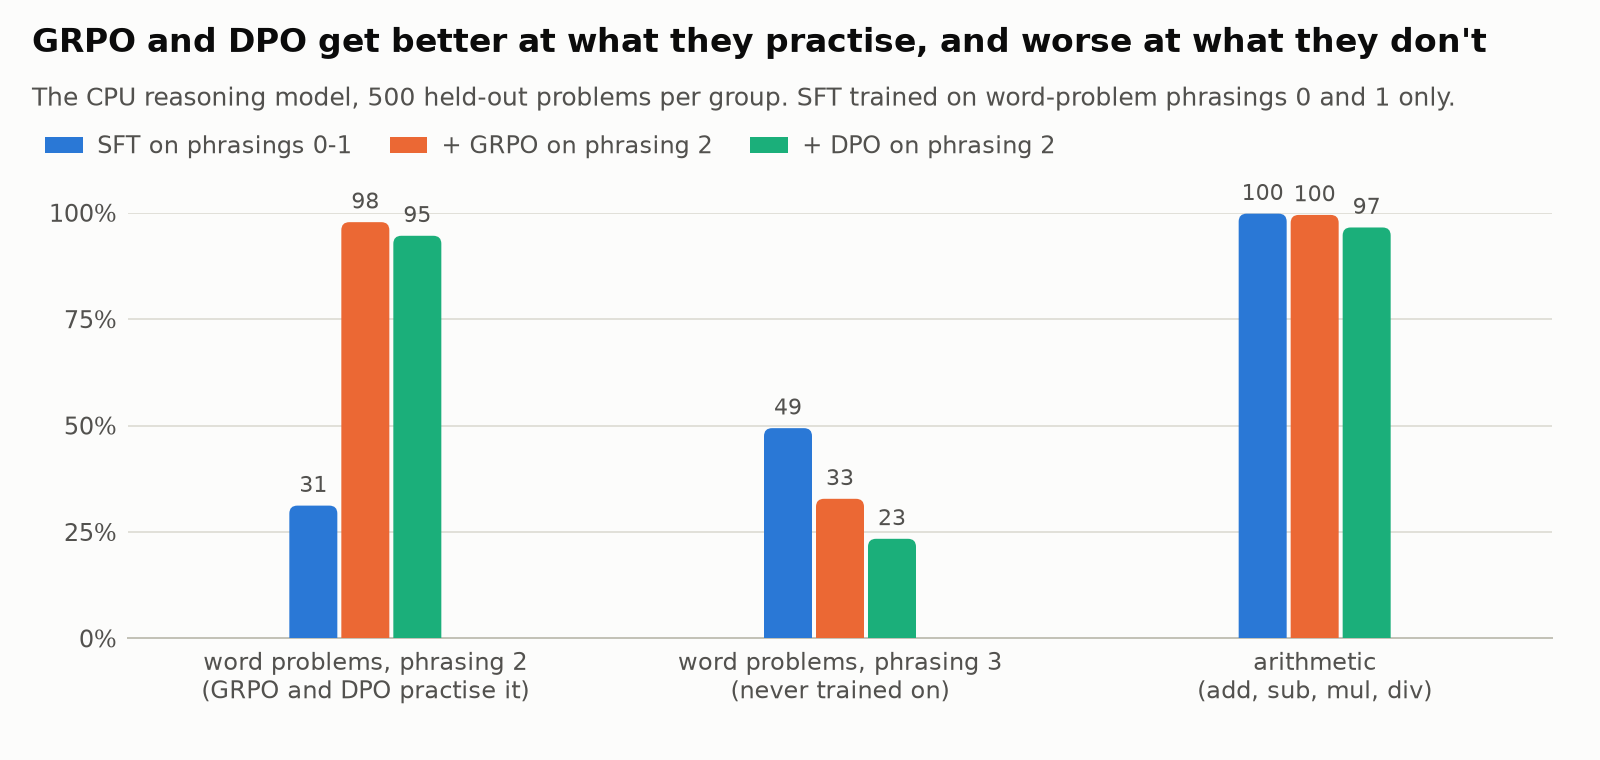
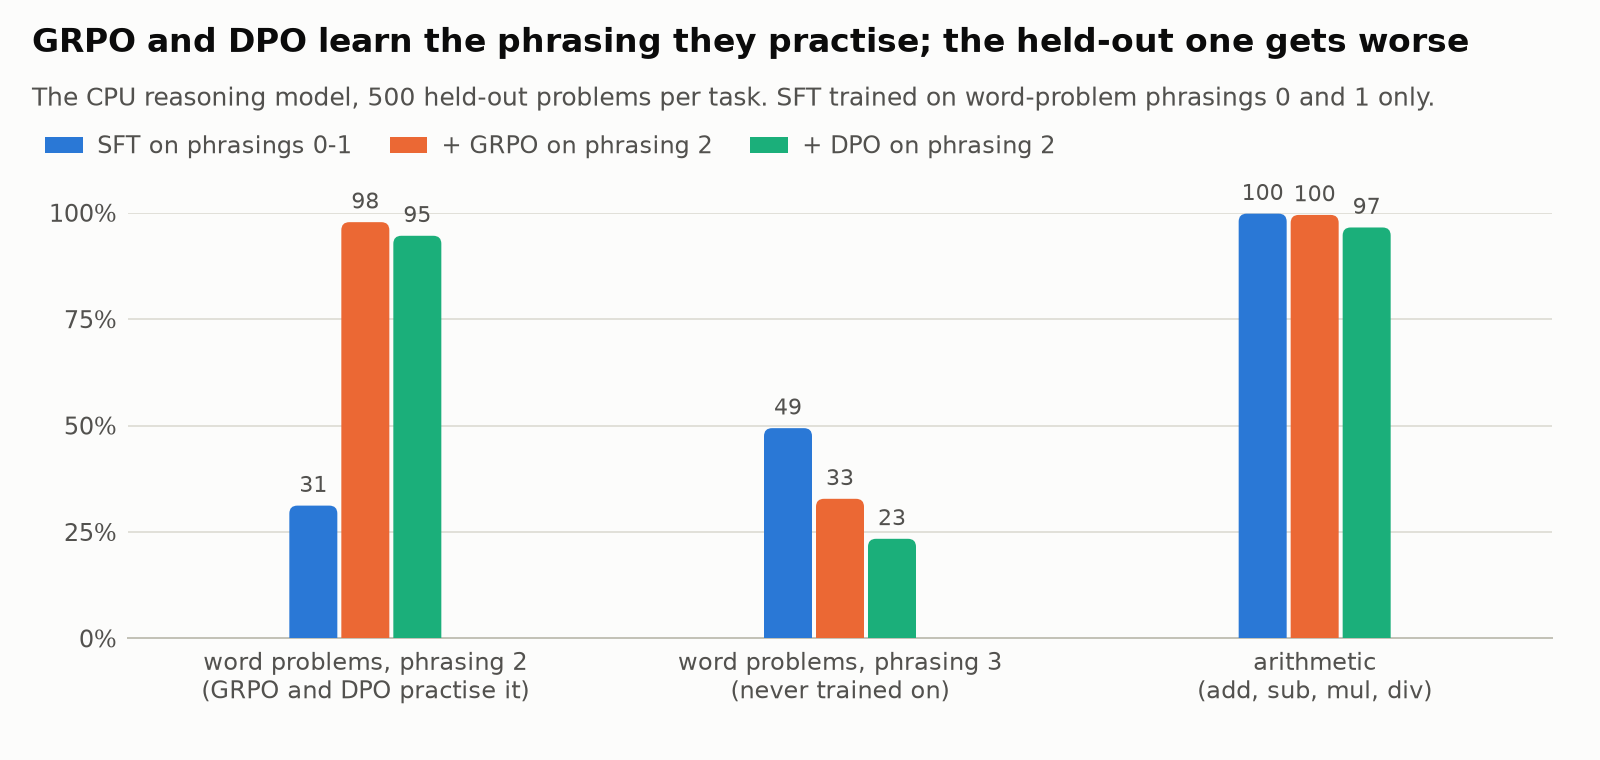
Fix review findings in the Colab results and phrasing-split sections
- GRPO's word-problem drop on Colab starts from 50% at step 100, not 51%
- the 4-digit claim names what was tested (4-digit sub/mul operands,
  4-digit quotients); "both GRPO runs" now means the reasoning model's runs
- the earlier 22% -> 34% run differs in setup, not just by chance
- the eval --phrasing example includes --model
- split figure: title matches the data (arithmetic is unchanged by GRPO),
  500 problems per task; friendly error when the split models are missing
- pretraining figure: no hidden training-loss end dot
- notebook: the CPU GRPO numbers separate reward from held-out accuracy

Claude-Session: https://claude.ai/code/session_01HpWxV4LpC7yRxGMyZBnKHA

Changed region(s): [[0.1875, 0.0303, 0.9375, 0.1513]]

diff --git a/docs/make_reasoning_figures.py b/docs/make_reasoning_figures.py
@@ -9,6 +9,12 @@ their metrics (checkpoints/example/experiments/); train them first to rerun the 
     python -m charlm sft  --config configs/reasoning/sft_plain.json
     python -m charlm grpo --config configs/reasoning/grpo_plain.json
 
+Neither are the models of the phrasing-split experiment (configs/reasoning/phrasing_split/):
+
+    python -m charlm sft  --config configs/reasoning/phrasing_split/sft.json
+    python -m charlm grpo --config configs/reasoning/phrasing_split/grpo.json
+    python -m charlm dpo  --config configs/reasoning/phrasing_split/dpo.json
+
 The evaluation (500 held-out prompts per task, a few minutes per model on a CPU) is saved to
 checkpoints/example/experiments/reasoning_eval.json and reused on later runs; delete it to evaluate again.
 """
@@ -278,7 +284,10 @@ def phrasing_split(label):
         import random
         from charlm import evaluate_tasks, load_checkpoint
         from charlm.tasks import ITEMS, NAMES, WORD_TEMPLATES, Example
-        model, tokenizer, _ = load_checkpoint(os.path.join(EXAMPLE, f'{dict(SPLIT)[label]}.pt'))
+        path = os.path.join(EXAMPLE, f'{dict(SPLIT)[label]}.pt')
+        if not os.path.exists(path):
+            raise FileNotFoundError(f"{path} is missing; train it first (see the top of this file)")
+        model, tokenizer, _ = load_checkpoint(path)
         held_out = eval_examples(['word'])
         rng = random.Random(0)
         op_of = lambda e: e.reasoning.split(':')[0].strip('0123456789')
@@ -460,13 +469,13 @@ def word_figure(t):
 
 
 def split_figure(t):
-    """ the phrasing-split experiment: what GRPO and DPO practise gets better, what they don't gets worse """
+    """ the phrasing-split experiment: GRPO and DPO learn the phrasing they practise, the held-out one gets worse """
     results = [(label, phrasing_split(label)) for label, _ in SPLIT]
     groups = [('phrasing 2', 'word problems, phrasing 2\n(GRPO and DPO practise it)'),
               ('phrasing 3', 'word problems, phrasing 3\n(never trained on)'),
               ('arithmetic', 'arithmetic\n(add, sub, mul, div)')]
-    fig, (ax,) = new_figure(t, 'GRPO and DPO get better at what they practise, and worse at what they don\'t',
-                            'The CPU reasoning model, 500 held-out problems per group. SFT trained on word-problem '
+    fig, (ax,) = new_figure(t, 'GRPO and DPO learn the phrasing they practise; the held-out one gets worse',
+                            'The CPU reasoning model, 500 held-out problems per task. SFT trained on word-problem '
                             'phrasings 0 and 1 only.', height=3.8, top=0.72)
     fig.subplots_adjust(right=0.97, bottom=0.16)
     legend(fig, t, [label for label, _ in results], y=0.85, kind='bar')

diff --git a/docs/make_colab_figures.py b/docs/make_colab_figures.py
@@ -37,7 +37,7 @@ def pretraining(t):
     legend(fig, t, ['training loss', 'validation loss'], y=0.83)
     x, train = column(rows, 'train_loss')
     _, val = column(rows, 'val_loss')
-    line(ax, t, x, train, t['series'][0])  # the two curves end almost together: only the held-out one is labelled
+    line(ax, t, x, train, t['series'][0], dot=False)  # the curves end almost together: only val is marked
     line(ax, t, x, val, t['series'][1], f'val {val[-1]:.3f}')
     ax.set_ylim(0.3, 0.8)
     thousands(ax)

diff --git a/README.md b/README.md
@@ -122,11 +122,11 @@ GRPO and DPO each start from the SFT model; they are two alternative ways to imp
 
 <picture>
   <source media="(prefers-color-scheme: dark)" srcset="docs/figures/colab_finetuning_dark.png">
-  <img alt="Three line charts of held-out accuracy during fine-tuning of the 59M model. SFT: arithmetic rises to 98-100% and word problems in the never-trained phrasing to about 48%; the checkpoint from step 3,500 is kept. GRPO: arithmetic stays at 98-100%, word problems fall from 51% to 23% between steps 100 and 150 and stay there. DPO: arithmetic falls from 98% to 84% and word problems from 48% to 31% over 1,000 steps." src="docs/figures/colab_finetuning.png">
+  <img alt="Three line charts of held-out accuracy during fine-tuning of the 59M model. SFT: arithmetic rises to 98-100% and word problems in the never-trained phrasing to about 48%; the checkpoint from step 3,500 is kept. GRPO: arithmetic stays at 98-100%, word problems fall from 50% to 23% between steps 100 and 150 and stay there. DPO: arithmetic falls from 98% to 84% and word problems from 48% to 31% over 1,000 steps." src="docs/figures/colab_finetuning.png">
 </picture>
 
 - **SFT works.** Besides 97-99% on arithmetic, it gets 48% of the word problems in the phrasing it never saw, against 22% for the 1.8M-parameter CPU model (measured on 100 and 500 prompts). A model pretrained on a billion characters of English reads unfamiliar wording better.
-- **GRPO made it worse.** It brought arithmetic to 100%, but word problems in the never-trained phrasing fell from 51% to 23% between steps 100 and 150 and stayed there. The model already got 99% of its sampled training replies right, so only 1-6% of the groups carried a reward signal: there was almost nothing to learn, and nothing kept the unfamiliar phrasing in place.
+- **GRPO made it worse.** It brought arithmetic to 100%, but word problems in the never-trained phrasing fell from 50% to 23% between steps 100 and 150 and stayed there. The model already got 99% of its sampled training replies right, so only 1-6% of the groups carried a reward signal: there was almost nothing to learn, and nothing kept the unfamiliar phrasing in place.
 - **DPO made it worse too:** division 99% → 77%, multiplication 97% → 80%, word problems 48% → 31%, although its training metrics looked healthy (it told chosen from rejected replies apart perfectly). A wrong reply differs from the right one in a digit or two of a ~55-token scratchpad, so pushing it down also pushes down the steps they share; and an accurate model makes few mistakes to pair, so the same pairs were probably seen many times.
 
 After this run, the configs were changed to give GRPO and DPO problems the model actually gets wrong, and to run them for 150 steps instead of 500 and 1,000 (see [Giving GRPO and DPO something to learn](#giving-grpo-and-dpo-something-to-learn)). The new configs haven't been run on a GPU yet. To run them on a Drive that holds an earlier run, first delete `sft.*`, `grpo.*` and `dpo.*` in `MyDrive/charlm/checkpoints` (keep `base.*`); otherwise SFT stops with "finished by a run with different settings". The logs of this run are in `docs/colab_run/`, and `docs/make_colab_figures.py` draws the figures.
@@ -165,7 +165,7 @@ python -m charlm eval --model checkpoints/example/base.pt checkpoints/example/sf
   <img alt="Grouped bar chart of held-out accuracy per task for the SFT, DPO and GRPO models. All three are near 100% on reverse, uppercase, spell and length. On addition SFT scores 13%, DPO 20% and GRPO 24%." src="docs/figures/final_comparison.png">
 </picture>
 
-The accuracy curves below (SFT, DPO and GRPO) are measured during training on 100 held-out prompts per task (50 for SFT), so they are noisier than the 500-prompt table. The figures are drawn by `docs/make_figures.py`, `docs/make_reasoning_figures.py`, `docs/make_colab_figures.py` and `docs/make_diagrams.py`, and the example tables printed by `docs/make_examples.py`, from the files in `checkpoints/example/` (`pip install matplotlib`, then e.g. `python docs/make_figures.py`).
+The accuracy curves below (SFT, DPO and GRPO) are measured during training on 100 held-out prompts per task (50 for SFT), so they are noisier than the 500-prompt table. The figures are drawn by `docs/make_figures.py`, `docs/make_reasoning_figures.py` and `docs/make_diagrams.py`, and the example tables printed by `docs/make_examples.py`, from the files in `checkpoints/example/` (the Colab figures by `docs/make_colab_figures.py`, from `docs/colab_run/`; `pip install matplotlib`, then e.g. `python docs/make_figures.py`).
 
 ### Pretraining
 
@@ -391,18 +391,18 @@ The plain models are not in the repository, only their metrics (`checkpoints/exa
 
 ### Giving GRPO and DPO something to learn
 
-Both GRPO runs above had little to learn: the SFT models already got 98-99% of their training problems right. Larger numbers don't help either. The reasoning model never extends its scratchpad to a fourth digit, so none of 1,440 sampled replies to 4-digit problems was right, and a group that is all wrong carries no reward signal. A phrasing the model hasn't seen does work. In this experiment SFT trains on word-problem phrasings 0 and 1 only (`"phrasings": [0, 1]`), then GRPO and DPO practise phrasing 2 (`"tasks": ["word"], "phrasings": [2]`), and phrasing 3 stays held out:
+The reasoning model's GRPO runs above, on the CPU and on Colab, had little to learn: the SFT models already got 98-99% of their training problems right. Larger numbers don't help either. The reasoning model never writes more scratchpad steps than it was trained on, so none of 1,440 sampled replies was right when a subtraction or multiplication had a 4-digit number or a division a 4-digit answer, and a group that is all wrong carries no reward signal. A phrasing the model hasn't seen does work. In this experiment SFT trains on word-problem phrasings 0 and 1 only (`"phrasings": [0, 1]`), then GRPO and DPO practise phrasing 2 (`"tasks": ["word"], "phrasings": [2]`), and phrasing 3 stays held out:
 
 <picture>
   <source media="(prefers-color-scheme: dark)" srcset="docs/figures/reasoning_split_dark.png">
-  <img alt="Grouped bar chart for three CPU models on 500 held-out problems per group. Word problems in phrasing 2, which GRPO and DPO practise: SFT 31%, after GRPO 98%, after DPO 95%. Word problems in phrasing 3, never trained on: SFT 49%, after GRPO 33%, after DPO 23%. Arithmetic: 100%, 100% and 97%." src="docs/figures/reasoning_split.png">
+  <img alt="Grouped bar chart for three CPU models on 500 held-out problems per task (the arithmetic bars average add, sub, mul and div). Word problems in phrasing 2, which GRPO and DPO practise: SFT 31%, after GRPO 98%, after DPO 95%. Word problems in phrasing 3, never trained on: SFT 49%, after GRPO 33%, after DPO 23%. Arithmetic: 100%, 100% and 97%." src="docs/figures/reasoning_split.png">
 </picture>
 
 - **GRPO learns the new phrasing from rewards alone:** 31% → 98% on held-out numbers, with the arithmetic untouched. Its reward rose from 80% (averaged over the first 25 steps) to 98% by step 50.
-- **The phrasing nothing trained on gets worse:** 49% → 33%. GRPO gets better at what it practises, not at reading wording in general. (After the first reasoning model's GRPO run the held-out phrasing improved instead, 22% → 34%, so this varies from run to run.)
+- **The phrasing nothing trained on gets worse:** 49% → 33%. GRPO gets better at what it practises, not at reading wording in general. (The first reasoning model's GRPO run improved the held-out phrasing instead, 22% → 34%; it started from SFT on all three training phrasings and practised all five math tasks, so the two runs don't show which outcome is typical.)
 - **DPO also learns phrasing 2** (95%), but costs some arithmetic (addition 100% → 92%, division 99% → 94%) and more of phrasing 3 (23%).
 
-`configs/reasoning/phrasing_split/` reproduces the experiment, and `python -m charlm eval --tasks word --phrasing 2` asks the held-out word problems in a given phrasing. The Colab configs now use the same split.
+`configs/reasoning/phrasing_split/` reproduces the experiment (its models are not in the repository, only their metrics), and `--phrasing` asks the held-out word problems in a given phrasing, e.g. `python -m charlm eval --model checkpoints/example/sft_reasoning.pt --tasks word --phrasing 2`. The Colab configs now use the same split.
 
 ## Using it as a library
 
